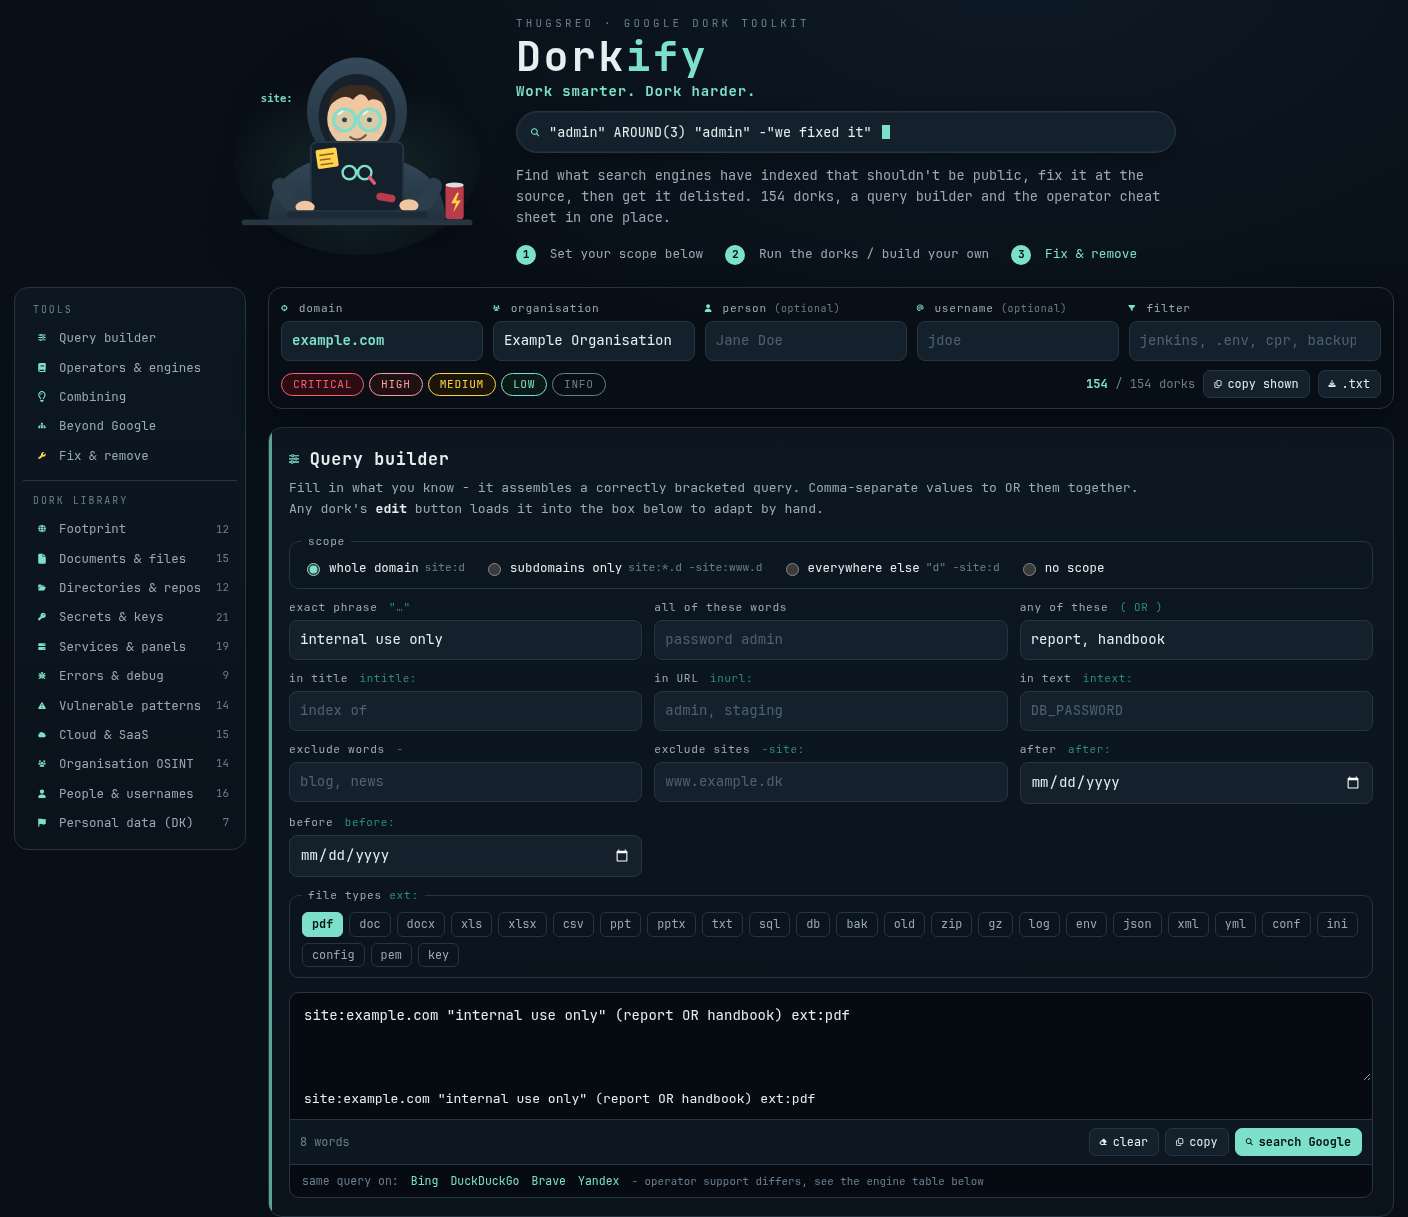
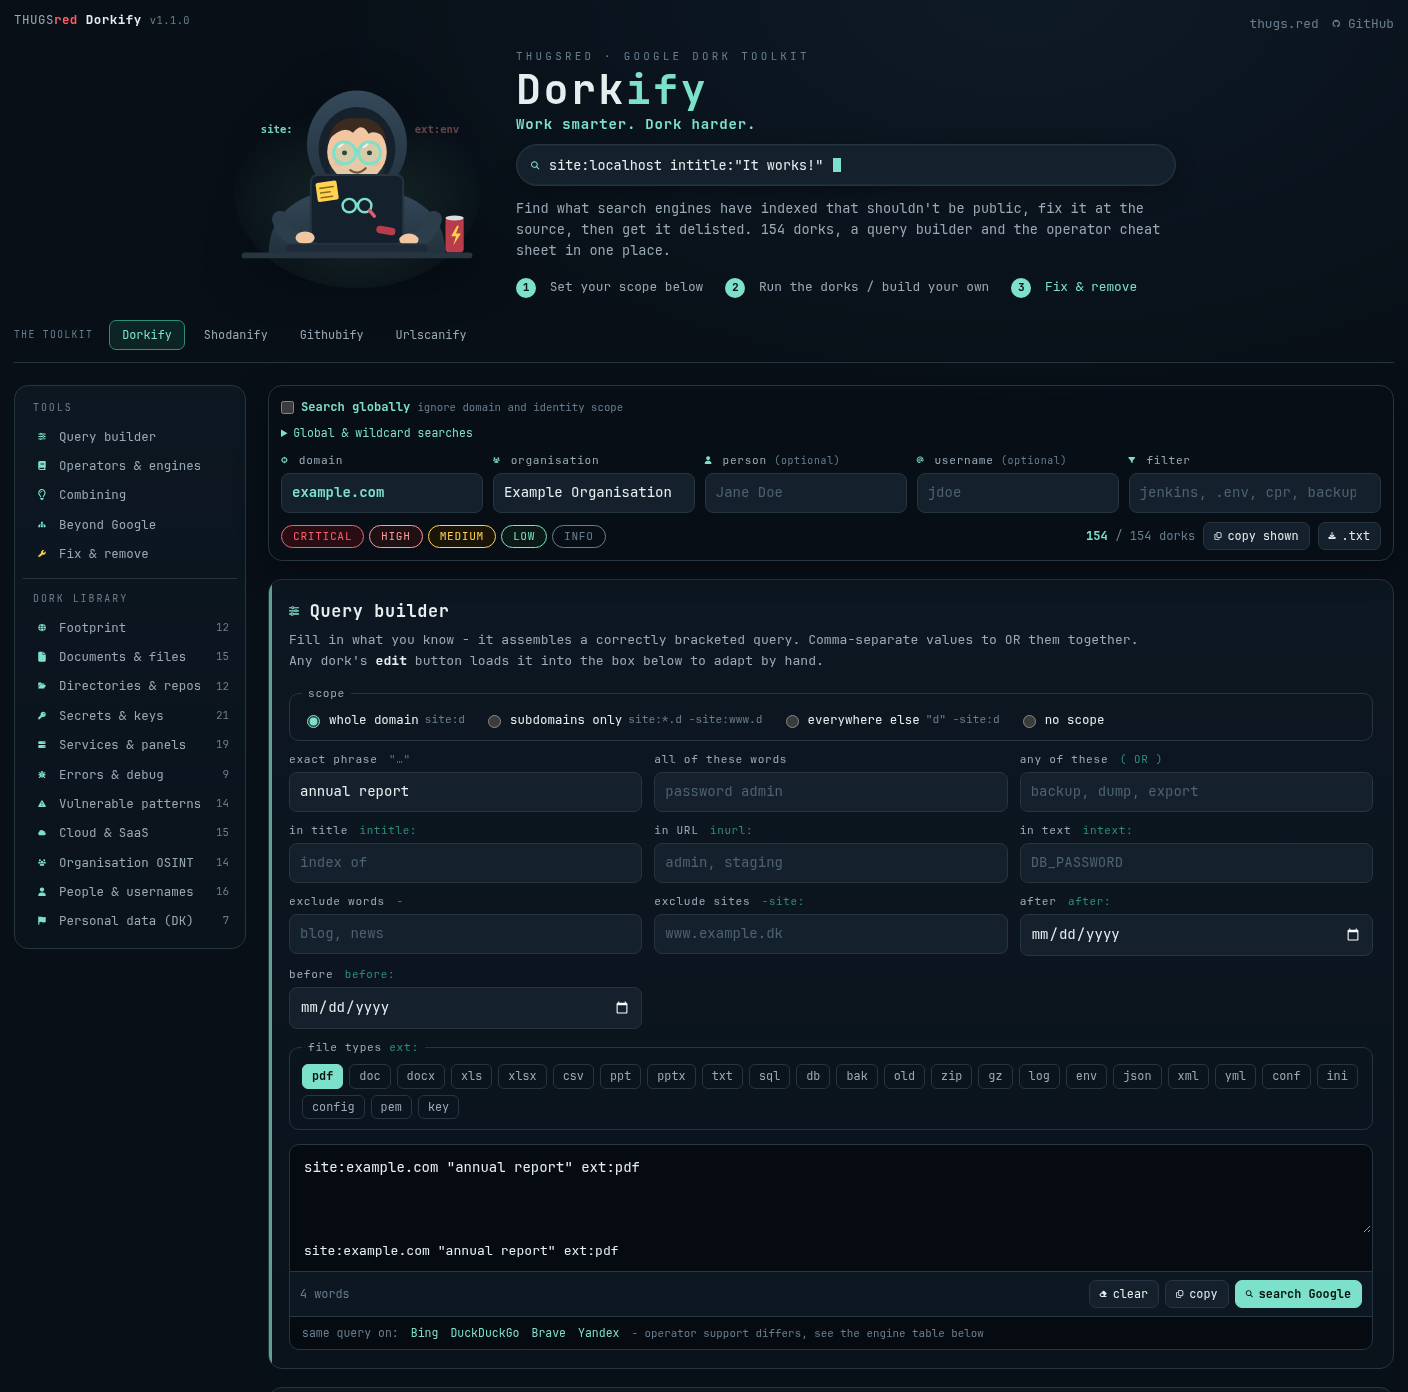
Add global search and optional local toolkit navigation

diff --git a/src/public/assets/dorkify.js b/src/public/assets/dorkify.js
@@ -15,6 +15,8 @@
 
   // ---------- scope ----------
   const inD = $('#d'), inO = $('#o'), inN = $('#n'), inU = $('#u'), inF = $('#f');
+  const globalSearch = $('#global-search');
+  const applyGlobal = () => [inD, inO, inN, inU].forEach(el => { el.disabled = globalSearch.checked; });
 
   function normDomain(v) {
     return v.trim().toLowerCase()
@@ -23,9 +25,11 @@
       .replace(/:\d+$/, '')          // port
       .replace(/^\*\./, '')
       .replace(/^www\./, '')
+      .replace(/^\./, '')
       .replace(/\.$/, '');
   }
   const scope = () => {
+    if (globalSearch.checked) return {d:'', o:'', name:'', user:''};
     const d = normDomain(inD.value);
     const o = inO.value.trim().replace(/"/g, '') || (d ? d.split('.')[0] : '');
     const name = inN.value.trim().replace(/"/g, '');
@@ -35,7 +39,8 @@
 
   // Placeholders that can't be filled render as ‹domain› / ‹org› / ‹person› /
   // ‹username› chips, and the dork's search button is disabled.
-  function resolve(tpl) {
+  function resolve(tpl, globalTpl = '') {
+    if (globalSearch.checked) return {q:globalTpl || '‹specific target required›', missing:!globalTpl};
     const { d, o, name, user } = scope();
     let missing = false;
     const out = tpl
@@ -86,7 +91,7 @@
 
   function renderDorks() {
     for (const el of dorks) {
-      const { q, missing } = resolve(el.dataset.q);
+      const { q, missing } = resolve(el.dataset.q, el.dataset.global);
       el._q = missing ? null : q;
       $('.q', el).innerHTML = highlight(q);
       const go = $('.go', el);
@@ -117,7 +122,7 @@
     let shown = 0;
     for (const el of dorks) {
       const text = el.dataset.text + ' ' + (el._q || '').toLowerCase();
-      const ok = sevOn.has(el.dataset.sev) && terms.every((t) => text.includes(t));
+      const ok = (!globalSearch.checked || Boolean(el.dataset.global)) && sevOn.has(el.dataset.sev) && terms.every((t) => text.includes(t));
       el.hidden = !ok;
       if (ok) shown++;
     }
@@ -136,8 +141,10 @@
 
   function saveScope() {
     const url = new URL(location.href);
+    store.set('dorkify.global', globalSearch.checked ? '1' : '0');
+    globalSearch.checked ? url.searchParams.set('global', '1') : url.searchParams.delete('global');
     for (const [k, el] of Object.entries(SCOPE_FIELDS)) {
-      const v = k === 'd' ? scope().d : el.value.trim();
+      const v = globalSearch.checked ? '' : k === 'd' ? scope().d : el.value.trim();
       store.set(`dorkify.${k}`, el.value.trim());
       v ? url.searchParams.set(k, v) : url.searchParams.delete(k);
     }
@@ -173,7 +180,7 @@
   }
 
   function needScope() {
-    toast('set a domain first');
+    toast(globalSearch.checked ? 'add a search criterion or turn off global mode' : 'set a domain first');
     inD.focus();
   }
 
@@ -187,7 +194,7 @@
     const v = (k) => ($(`[data-b="${k}"]`).value || '').trim();
     const { d } = scope();
     const parts = [];
-    const mode = $('input[name="bscope"]:checked').value;
+    const mode = globalSearch.checked ? 'none' : $('input[name="bscope"]:checked').value;
     const dom = d || '‹domain›';
     if (mode === 'domain') parts.push(`site:${dom}`);
     if (mode === 'subs') parts.push(`site:*.${dom} -site:www.${dom}`);
@@ -233,12 +240,18 @@
   // Once the box holds hand-edited text (typed, or loaded with "edit"), a
   // domain change no longer rebuilds it; touching the builder fields does.
   let handEdited = false;
-  const fromBuilder = () => { handEdited = false; build(); };
+  const fromBuilder = event => {
+    if (event?.target.name === 'bscope') {
+      globalSearch.checked = event.target.value === 'none';
+      applyGlobal(); saveScope(); renderDorks(); applyFilter();
+    }
+    handEdited = false; build();
+  };
   $('#bform').addEventListener('submit', (e) => e.preventDefault());
   $('#bform').addEventListener('input', fromBuilder);
   $('#bform').addEventListener('change', fromBuilder);
   qEl.addEventListener('input', () => { handEdited = true; renderQuery(); });
-  $('#q-clear').addEventListener('click', () => { $('#bform').reset(); handEdited = false; build(); qEl.focus(); });
+  $('#q-clear').addEventListener('click', () => { $('#bform').reset(); if (globalSearch.checked) $('input[name="bscope"][value="none"]').checked = true; handEdited = false; build(); qEl.focus(); });
   $('#q-copy').addEventListener('click', () => {
     if (!qEl.value.trim()) return;
     if (qEl.value.includes('‹')) return needScope();
@@ -258,7 +271,7 @@
       if (!el._q) return needScope();
       copy(el._q, 'dork copied');
     } else if (e.target.closest('.edit')) {
-      qEl.value = resolve(el.dataset.q).q;
+      qEl.value = resolve(el.dataset.q, el.dataset.global).q;
       handEdited = true;
       renderQuery();
       $('#builder').scrollIntoView();
@@ -276,13 +289,13 @@
   // ---------- export ----------
   function exportText() {
     const { d, o, name, user } = scope();
-    const who = [d || 'no domain set', o, name, user && `@${user}`].filter(Boolean).join(' / ');
+    const who = [globalSearch.checked ? 'global search' : d || 'no domain set', o, name, user && `@${user}`].filter(Boolean).join(' / ');
     const lines = [`# THUGSred Dorkify - ${who} - ${new Date().toISOString().slice(0, 10)}`, ''];
     for (const c of cats) {
       const shown = $$('.dork:not([hidden])', c);
       if (!shown.length) continue;
       lines.push(`## ${c.dataset.title}`);
-      for (const el of shown) lines.push(`[${el.dataset.sev}] ${$('h3', el).textContent}`, resolve(el.dataset.q).q, '');
+      for (const el of shown) lines.push(`[${el.dataset.sev}] ${$('h3', el).textContent}`, resolve(el.dataset.q, el.dataset.global).q, '');
     }
     return lines.join('\n');
   }
@@ -367,8 +380,15 @@
   Object.values(SCOPE_FIELDS).forEach((el) => el.addEventListener('input', onScope));
   inD.addEventListener('change', () => { inD.value = normDomain(inD.value); onScope(); });
   inF.addEventListener('input', applyFilter);
+  globalSearch.addEventListener('change', () => {
+    $('input[name="bscope"][value="' + (globalSearch.checked ? 'none' : 'domain') + '"]').checked = true;
+    handEdited = false; applyGlobal(); onScope();
+  });
 
   const params = new URLSearchParams(location.search);
+  globalSearch.checked = params.has('global') ? params.get('global') === '1' : store.get('dorkify.global') === '1';
+  if (globalSearch.checked) $('input[name="bscope"][value="none"]').checked = true;
+  applyGlobal();
   for (const [k, el] of Object.entries(SCOPE_FIELDS)) el.value = params.get(k) || store.get(`dorkify.${k}`) || '';
   renderDorks();
   applyFilter();

diff --git a/src/public/assets/dorkify.css b/src/public/assets/dorkify.css
@@ -308,3 +308,22 @@ footer i { color: var(--accent); }
   .patterns, .snips { grid-template-columns: 1fr; }
 }
 @media (prefers-reduced-motion: reduce) { html { scroll-behavior: auto; } .toast { transition: none; } .typer .caret { animation: none; } }
+
+/* Optional local toolkit navigation. */
+.suite-nav { display: flex; gap: 6px; align-items: center; flex-wrap: wrap; margin: 0 0 22px; border-bottom: 1px solid var(--line); padding: 0 0 12px; }
+.suite-nav > span { font-size: .6rem; letter-spacing: .15em; color: var(--faint); margin-right: 10px; }
+.suite-nav a { border: 1px solid transparent; border-radius: 7px; padding: 5px 12px; font-size: .74rem; color: var(--muted); }
+.suite-nav a[aria-current] { color: var(--accent); border-color: var(--accent-dim); background: #0d2424; }
+.suite-nav a:hover { background: var(--surface2); text-decoration: none; }
+
+@media (max-width: 600px) { .suite-nav > span { width: 100%; } .suite-nav a { padding: 5px 8px; } }
+
+/* Explicit global mode; hidden target fields retain their values when switched back. */
+.global-toggle { display: flex; align-items: center; flex-wrap: wrap; gap: 7px; margin: 0 0 7px; color: var(--accent); font-size: .76rem; }
+.global-toggle input { margin: 0; accent-color: var(--accent); }
+.global-toggle span { color: var(--faint); font-size: .67rem; }
+.global-help { color: var(--muted); font-size: .72rem; margin: 6px 0 10px; }
+.global-help summary { cursor: pointer; color: var(--accent); }
+.global-help p { margin: 8px 0; }
+.global-help code { color: var(--gold); overflow-wrap: anywhere; }
+input:disabled { opacity: .45; cursor: not-allowed; }

diff --git a/src/public/index.php b/src/public/index.php
@@ -3,6 +3,7 @@
 // workflow. Rendered by PHP (Docker / php -S) or exported to static HTML by
 // scripts/build-static.sh. All behaviour is client-side in assets/dorkify.js.
 require_once __DIR__ . '/../lib/config.php';
+require_once __DIR__ . '/../lib/toolkit.php';
 require_once __DIR__ . '/../lib/dorks.php';
 require_once __DIR__ . '/../lib/reference.php';
 if (PHP_SAPI !== 'cli') header('X-Content-Type-Options: nosniff');
@@ -17,6 +18,7 @@ $e        = fn(string $s): string => htmlspecialchars($s, ENT_QUOTES);
 $glyph    = fn(int $cp): string => '&#x' . dechex($cp) . ';';
 $SEV      = ['crit' => 'critical', 'high' => 'high', 'med' => 'medium', 'low' => 'low', 'info' => 'info'];
 $v        = DORKIFY_VERSION;
+$assetVersion = $v . '-' . substr(hash('sha256', hash_file('sha256', __DIR__ . '/assets/dorkify.css') . hash_file('sha256', __DIR__ . '/assets/dorkify.js')), 0, 10);
 ?><!doctype html>
 <html lang="en" data-theme="dark">
 <head>
@@ -28,8 +30,8 @@ $v        = DORKIFY_VERSION;
 <meta name="description" content="<?= $e(DORKIFY_NAME . ' - ' . DORKIFY_TAGLINE) ?>">
 <link rel="icon" href="favicon.svg" type="image/svg+xml">
 <link rel="preload" href="fonts/JetBrainsMonoNerdFontMono-Regular.woff2" as="font" type="font/woff2" crossorigin>
-<link rel="stylesheet" href="assets/fonts.css?v=<?= $v ?>">
-<link rel="stylesheet" href="assets/dorkify.css?v=<?= $v ?>">
+<link rel="stylesheet" href="assets/fonts.css?v=<?= $assetVersion ?>">
+<link rel="stylesheet" href="assets/dorkify.css?v=<?= $assetVersion ?>">
 </head>
 <body>
 <div class="wrap">
@@ -40,7 +42,7 @@ $v        = DORKIFY_VERSION;
 </nav>
 
 <header class="hero">
-  <img class="mascot" src="assets/mascot.svg?v=<?= $v ?>" width="260" height="240"
+  <img class="mascot" src="assets/mascot.svg?v=<?= $assetVersion ?>" width="260" height="240"
        alt="Dorkify mascot: a nerd in a hoodie and glasses, typing dorks on a laptop">
   <div class="hero-text">
     <div class="tag">THUGSred &middot; Google dork toolkit</div>
@@ -56,6 +58,8 @@ $v        = DORKIFY_VERSION;
     </ol>
   </div>
 </header>
+
+<?php render_toolkit('dorkify'); ?>
 
 <div class="layout">
 
@@ -78,6 +82,12 @@ $v        = DORKIFY_VERSION;
 
 <div class="main">
 <section class="scope" id="scope" aria-label="Scope">
+  <label class="global-toggle"><input type="checkbox" id="global-search"> <b>Search globally</b> <span>ignore domain and identity scope</span></label>
+  <details class="global-help"><summary>Global &amp; wildcard searches</summary>
+    <p>Global mode removes the target <code>site:</code> restriction from compatible library queries and from the builder. Keep useful criteria such as <code>filetype:pdf "annual report"</code>; no hostname or <code>*</code> is needed.</p>
+    <p>For a domain suffix, enter <code>.dk</code> or <code>dk</code> with global mode off to generate <code>site:dk</code>. This limits the suffix, not the language, location or ownership of a site. Global mode searches across Google's index, subject to its result limits; it cannot list the entire web.</p>
+    <p>A quoted <code>*</code> is a word placeholder, not an instruction to remove scope. Queries about a specific person, organisation, domain mention or subdomain are hidden in global mode because they still need that identity. Explicit exclusions and content filters remain in place.</p>
+  </details>
   <div class="scope-fields">
     <label class="fld"><span><i>&#xf05b;</i> domain</span>
       <input id="d" type="text" inputmode="url" autocomplete="off" autocapitalize="off" spellcheck="false" placeholder="example.dk"></label>
@@ -208,7 +218,7 @@ $v        = DORKIFY_VERSION;
     <p class="lead"><?= $e($cat['lead']) ?></p>
     <div class="dorks">
       <?php foreach ($cat['dorks'] as $d): ?>
-        <article class="dork" data-sev="<?= $d['s'] ?>" data-q="<?= $e($d['q']) ?>"
+        <article class="dork" data-sev="<?= $d['s'] ?>" data-q="<?= $e($d['q']) ?>" data-global="<?= $e(str_contains($d['q'], '{site}') && !preg_match('/\{(?:d|org|name|user)\}/', $d['q']) ? trim(str_replace('{site}', '', $d['q'])) : '') ?>"
                  data-text="<?= $e(mb_strtolower($d['t'] . ' ' . $d['q'] . ' ' . ($d['n'] ?? '') . ' ' . ($d['f'] ?? '') . ' ' . $cat['title'])) ?>">
           <span class="sev sev-<?= $d['s'] ?>"><?= $SEV[$d['s']] ?></span>
           <div class="dbody">
@@ -320,6 +330,6 @@ location /internal/ {
 </div>
 
 <div class="toast" id="toast" role="status" aria-live="polite"></div>
-<script src="assets/dorkify.js?v=<?= $v ?>"></script>
+<script src="assets/dorkify.js?v=<?= $assetVersion ?>"></script>
 </body>
 </html>

diff --git a/src/lib/toolkit.php b/src/lib/toolkit.php
@@ -1,0 +1,24 @@
+<?php
+// Optional deployment-local navigation. No links are enabled in the distributed app.
+function render_toolkit(string $current): void
+{
+    $file = __DIR__ . '/local.php';
+    if (!is_file($file)) return;
+    $settings = require $file;
+    $links = is_array($settings) ? ($settings['toolkit'] ?? []) : [];
+    if (!is_array($links)) return;
+    $safe = [];
+    foreach ($links as $id => $link) {
+        if (!is_array($link) || !is_string($link['label'] ?? null) || !is_string($link['url'] ?? null)) continue;
+        $url = parse_url($link['url']);
+        if (!$url || !in_array($url['scheme'] ?? '', ['http', 'https'], true) || empty($url['host']) || isset($url['user']) || isset($url['pass'])) continue;
+        $safe[$id] = $link;
+    }
+    if (!$safe) return;
+    $escape = fn(string $value): string => htmlspecialchars($value, ENT_QUOTES | ENT_SUBSTITUTE, 'UTF-8');
+    echo '<nav class="suite-nav" aria-label="THUGSred query tools"><span>THE TOOLKIT</span>';
+    foreach ($safe as $id => $link) {
+        echo '<a href="' . $escape($link['url']) . '"' . ($id === $current ? ' aria-current="page"' : '') . '>' . $escape($link['label']) . '</a>';
+    }
+    echo '</nav>';
+}

diff --git a/src/lib/config.php b/src/lib/config.php
@@ -9,4 +9,4 @@ const DORKIFY_TAGLINE  = 'Work smarter. Dork harder.';
 const DORKIFY_REPO     = 'kawaiipantsu/thugsred-dorkify';
 const DORKIFY_REPO_URL = 'https://github.com/kawaiipantsu/thugsred-dorkify';
 const DORKIFY_WEBSITE  = 'https://thugs.red';
-const DORKIFY_VERSION  = '1.0.0';
+const DORKIFY_VERSION  = '1.1.0';

diff --git a/README.md b/README.md
@@ -53,7 +53,8 @@ artwork ship with the app.
 
 </details>
 
-*Captured from the running UI using example data. Personal scope fields are empty.*
+*Captured from the running UI using example data. Personal scope fields are empty.
+The hosted instance enables optional toolkit navigation; standalone installs omit it.*
 
 ## Quick start
 
@@ -99,6 +100,37 @@ For example, the builder can assemble:
 ```text
 site:example.com "internal use only" (report OR handbook) ext:pdf
 ```
+
+## Global & wildcard searches
+
+Enable **Search globally** in the scope bar to remove the target `site:`
+restriction from compatible library queries and from the builder. Keep
+useful criteria, for example `filetype:pdf "annual report"`. No `*` is needed.
+Templates that still need a specific person, organisation or domain are
+hidden in global mode. Explicit content filters and exclusions remain.
+
+For a suffix search, enter `.dk` or `dk` with global mode off to produce
+`site:dk`. This limits the hostname suffix, not language or geographic
+location. A quoted `*` is a word placeholder; it does not mean “the whole
+web”. Search engines still limit their indexed coverage and returned results.
+
+## Optional local toolkit navigation
+
+Standalone and Docker installations omit sibling-tool navigation by default.
+A hosted deployment can create a `lib/local.php` beside its deployed
+`lib/config.php`, outside the public document root:
+
+```php
+<?php
+return ['toolkit' => [
+    'dorkify' => ['label' => 'Dorkify', 'url' => 'https://search.example.com/'],
+    'another-tool' => ['label' => 'Another tool', 'url' => 'https://tools.example.com/'],
+]];
+```
+
+Only add services you operate. The local file is ignored by Git and excluded
+from Docker builds. Our hosted instance enables this navigation; individual
+installs do not need it.
 
 ## Configuration
 

diff --git a/CHANGELOG.md b/CHANGELOG.md
@@ -1,5 +1,12 @@
 # Changelog
 
+## 1.1.0 — 2026-11-06
+
+- Add an explicit global-search switch for the builder and compatible library queries.
+- Explain domain-suffix searches, wildcard behavior and the limits of global results.
+- Add optional deployment-local toolkit navigation; standalone installs have no sibling-site links.
+- Keep local navigation settings out of Git and Docker images; bust asset caches when content changes.
+
 ## 1.0.0 — 2026-11-05
 
 First standalone release of THUGSred's self-hosted Google dork toolkit.
